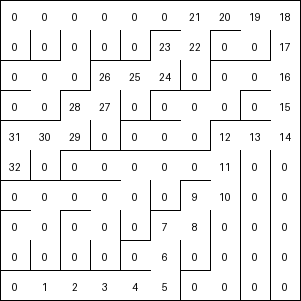
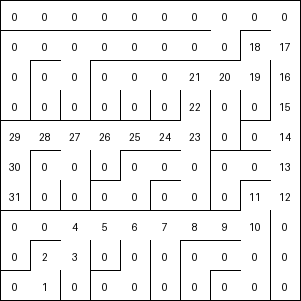
feat: implement hunt and kill

diff --git a/mazes/mazes/hunt_and_kill.py b/mazes/mazes/hunt_and_kill.py
@@ -1,0 +1,33 @@
+from random import choice
+from typing import Optional
+
+from mazes.cells.basic_cell import BasicCell
+from mazes.grids.basic_grid import BasicGrid
+from mazes.mazes.base_maze import BaseMaze
+
+
+class HuntAndKill(BaseMaze):
+    def __call__(self) -> BasicGrid:
+        current: Optional[BasicCell] = self.grid.random_cell()
+
+        while current:
+            unvisited_neighbors = [n for n in current.neighbors if not n.links]
+
+            if unvisited_neighbors:
+                neighbor = choice(unvisited_neighbors)
+                current.link(neighbor)
+                current = neighbor
+            else:
+                current = None
+
+                for cell in self.grid.iter_each_cell():
+                    visited_neighbors = [n for n in cell.neighbors if n.links]
+                    if len(cell.links) == 0 and visited_neighbors:
+                        current = cell
+
+                        neighbor = choice(visited_neighbors)
+                        current.link(neighbor)
+
+                        break
+
+        return self.grid

diff --git a/tests/integration/test_hunt_and_kill.py b/tests/integration/test_hunt_and_kill.py
@@ -1,0 +1,18 @@
+from mazes.grids.colored_grid import ColoredGrid
+from mazes.mazes.hunt_and_kill import HuntAndKill
+
+
+def test_hunt_and_kill():
+    grid = ColoredGrid(25, 25)
+    maze = HuntAndKill(grid)()
+
+    assert maze is not None
+
+    start_coord = maze.rows // 2, maze.cols // 2
+    start = maze[start_coord]
+
+    distances = start.distances()
+    maze.distances = distances
+
+    print(maze)
+    maze.to_png(output_name="examples/hunt_and_kill.png")
